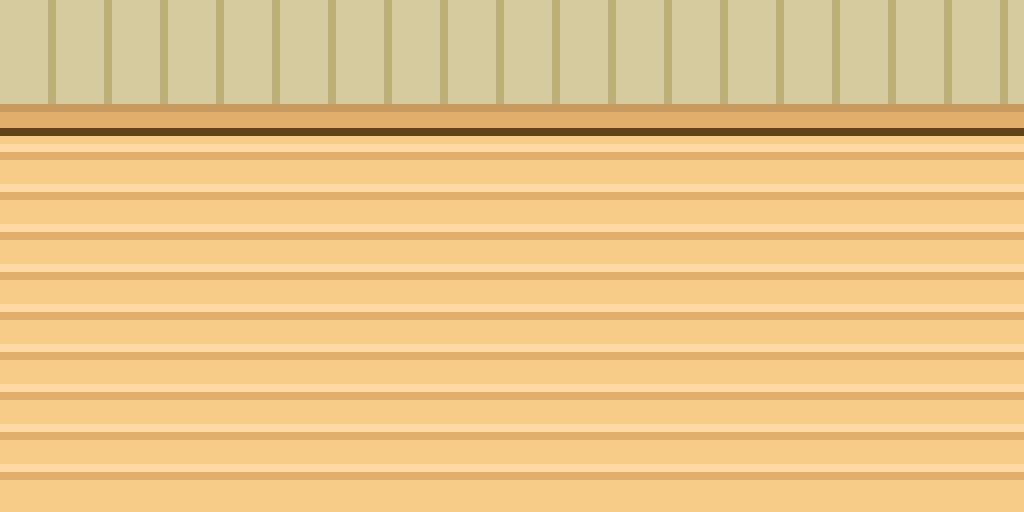
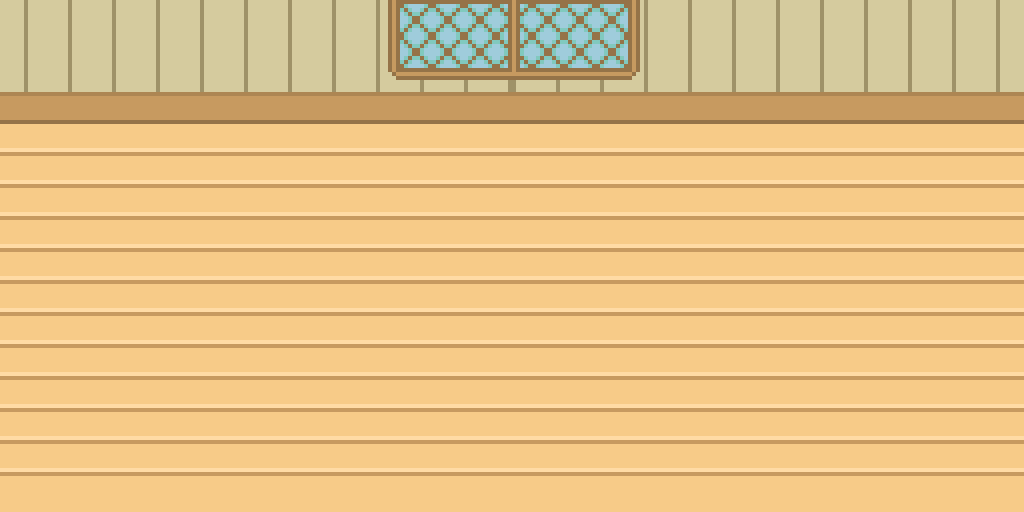
Mudança do fundo do jogo, vadidando todas as telas e css e alterando os erros da validação

diff --git a/jogo.html b/jogo.html
@@ -11,7 +11,7 @@
 </head>
 
 <body>
-    <br><br>
+    <br>
     <div class="meio">
         <div class="placar">
             <a href="#" id="btn-desistir">
@@ -26,7 +26,7 @@
     </div>
 
     <dialog id="modal-ganhar">
-        <img id="bandeira" src="img/Bandeira_RS.png" alt="bandeirinha">
+        <img class="bandeira" src="img/Bandeira_RS.png" alt="bandeirinha">
         <div class="caixa-modal">
             <h1> Vitória! </h1>
             <div class="modal-menu">
@@ -61,7 +61,7 @@
         </div>
     </dialog>
     <dialog id="modal-perder">
-        <img id="bandeira" src="img/Bandeira_RS.png" alt="bandeirinha">
+        <img class="bandeira" src="img/Bandeira_RS.png" alt="bandeirinha">
         <div class="caixa-modal">
             <h1> Fim de Jogo! </h1>
             <div class="modal-menu">
@@ -95,8 +95,6 @@
             </a>
         </div>
     </dialog>
-
-
     <script src="js/jogo.js"></script>
     <script src="js/modais.js"></script>
 </body>

diff --git a/css/jogo.css b/css/jogo.css
@@ -96,7 +96,7 @@ dialog::backdrop {
     background-color: rgba(0, 0, 0, 0.6);
 }
 
-#bandeira {
+.bandeira {
     width: 45vw;
     height: auto;
     position: absolute;
